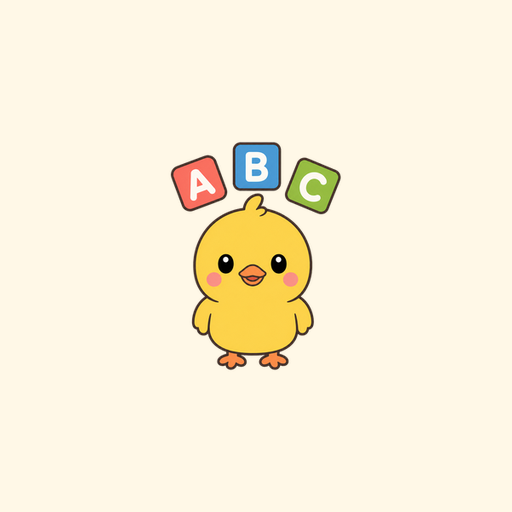
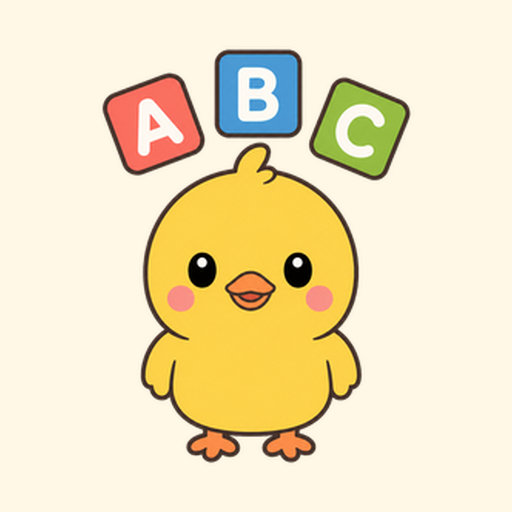
스토어 아이콘이 타일을 안 채우던 것 (tool/make_icon512.py)
어댑티브 아이콘 원본은 런처가 가장자리를 잘라내는 걸 전제로 이미 넉넉한 여백을
품고 있다(그림이 가로 47%). 거기에 다시 72% 로 줄여 얹어서 가로 33% 짜리
콩알 병아리가 됐다. 폰에서는 런처가 가운데를 확대하니 꽉 차 보여 못 알아챘고
스토어 목록에서만 티가 났다.

원본 여백과 무관하게 **그림의 실제 범위를 재서** 목표 비율(긴 쪽 82%)까지 키우도록
고쳤다. 삐약푸쉬 아이콘(가로 83%)과 같은 인상이 된다.

Changed region(s): [[0.1875, 0.0938, 0.8125, 0.9062]]

diff --git a/tool/make_icon512.py b/tool/make_icon512.py
@@ -1,0 +1,51 @@
+# -*- coding: utf-8 -*-
+"""스토어 아이콘 512 를 다시 만든다 — 병아리가 타일을 꽉 채우게.
+
+**앞서 틀린 것**: 어댑티브 아이콘 원본(`ic_launcher_fg`)은 런처가 가장자리를 잘라내는 것을
+전제로 **이미 넉넉한 여백을 품고 있다**(그림이 가로 47%만 차지). 거기에 다시 72% 로 줄여
+얹었더니 가로 33% 짜리 콩알 병아리가 됐다. 폰에서는 런처가 가운데를 확대해 보여 주므로
+꽉 차 보여서 눈치채기 어려웠고, 스토어 목록에서만 티가 났다.
+
+**고친 방식**: 원본 여백이 얼마든 상관없이, **그림의 실제 범위를 재서** 목표 비율까지
+키운다. 삐약푸쉬 아이콘(가로 83%)과 같은 인상이 되도록 맞췄다.
+"""
+import io, os, re, sys
+sys.stdout.reconfigure(encoding="utf-8")
+from PIL import Image
+
+# 삐약푸쉬가 가로 83% · 세로 72% 다. 같은 정도로 채운다.
+TARGET = 0.82          # 긴 쪽이 타일의 몇 할을 차지할지
+APPS = [("PiyakEnglish", "cream")]
+
+
+def color_of(app, name):
+    p = f"C:/workAndroid/{app}/app/src/main/res/values/colors.xml"
+    s = io.open(p, encoding="utf-8").read()
+    m = re.search(r'name="%s">\s*(#[0-9A-Fa-f]{6,8})' % re.escape(name), s)
+    assert m, f"{app}: {name} 색 없음"
+    h = m.group(1).lstrip("#")
+    if len(h) == 8:
+        h = h[2:]
+    return tuple(int(h[i:i + 2], 16) for i in (0, 2, 4))
+
+
+for app, bg_name in APPS:
+    root = f"C:/workAndroid/{app}"
+    bg = color_of(app, bg_name)
+
+    fg = Image.open(f"{root}/app/src/main/res/mipmap-xxxhdpi/ic_launcher_fg.png").convert("RGBA")
+    box = fg.getchannel("A").getbbox()          # 그림이 실제로 있는 범위
+    art = fg.crop(box)
+
+    # 긴 쪽을 목표 비율에 맞춰 키운다 (원본 여백이 얼마든 결과가 같아진다)
+    scale = (512 * TARGET) / max(art.width, art.height)
+    art = art.resize((max(1, round(art.width * scale)), max(1, round(art.height * scale))),
+                     Image.LANCZOS)
+
+    canvas = Image.new("RGB", (512, 512), bg)
+    canvas.paste(art, ((512 - art.width) // 2, (512 - art.height) // 2), art)
+
+    out = f"{root}/store/업로드/icon_512.png"
+    canvas.save(out, optimize=True)
+    print(f"  {app}: 그림 {art.width}×{art.height} "
+          f"= 가로 {art.width / 512 * 100:.0f}% 세로 {art.height / 512 * 100:.0f}% (배경 {bg})")
